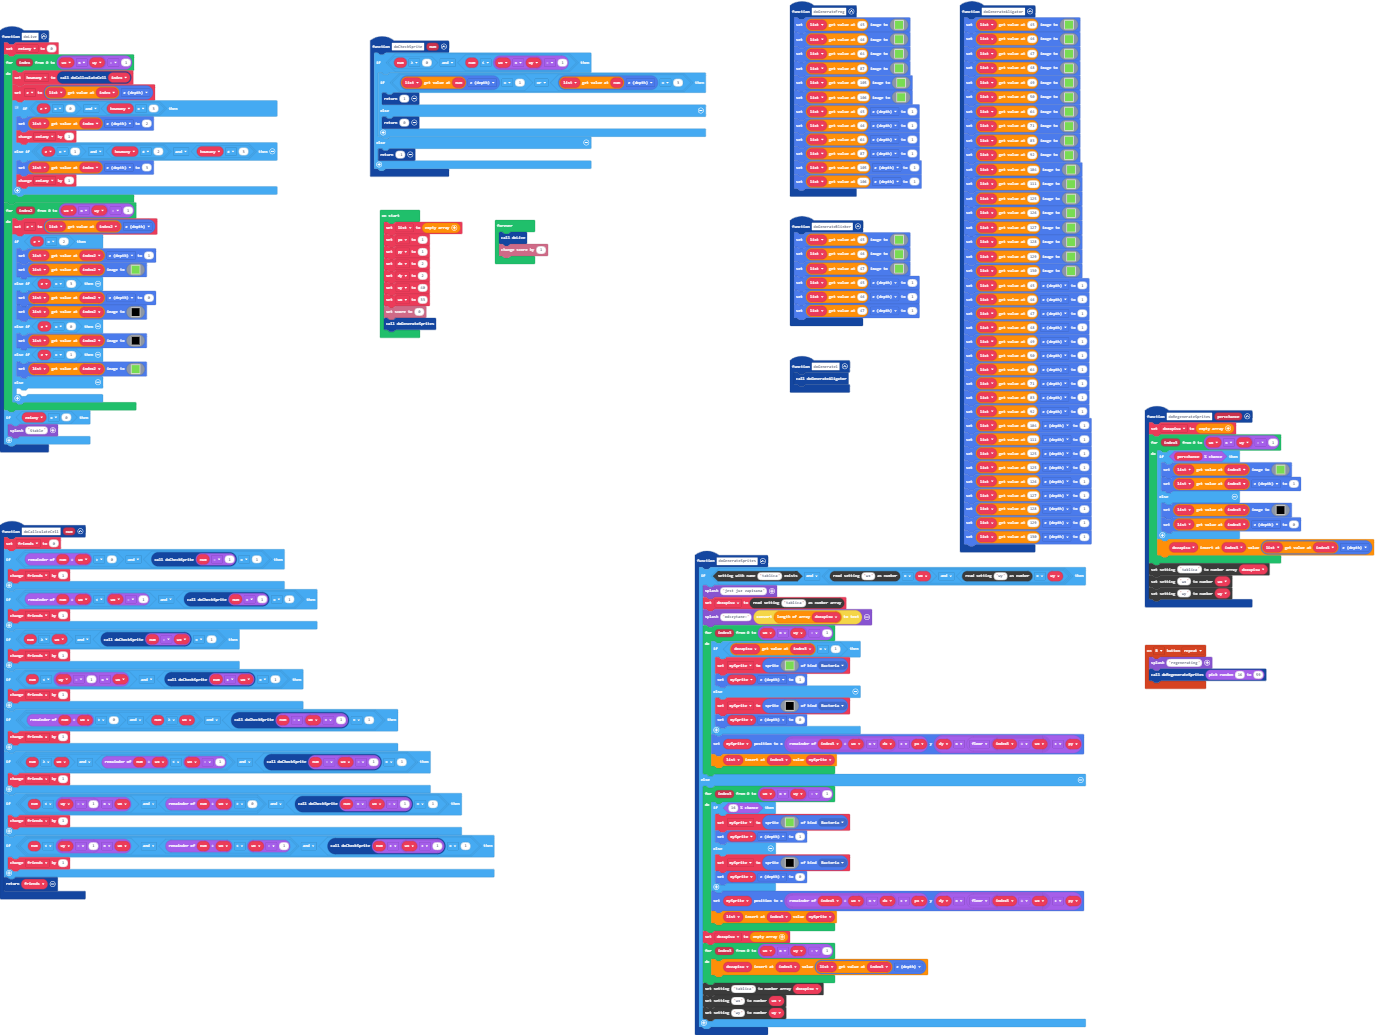
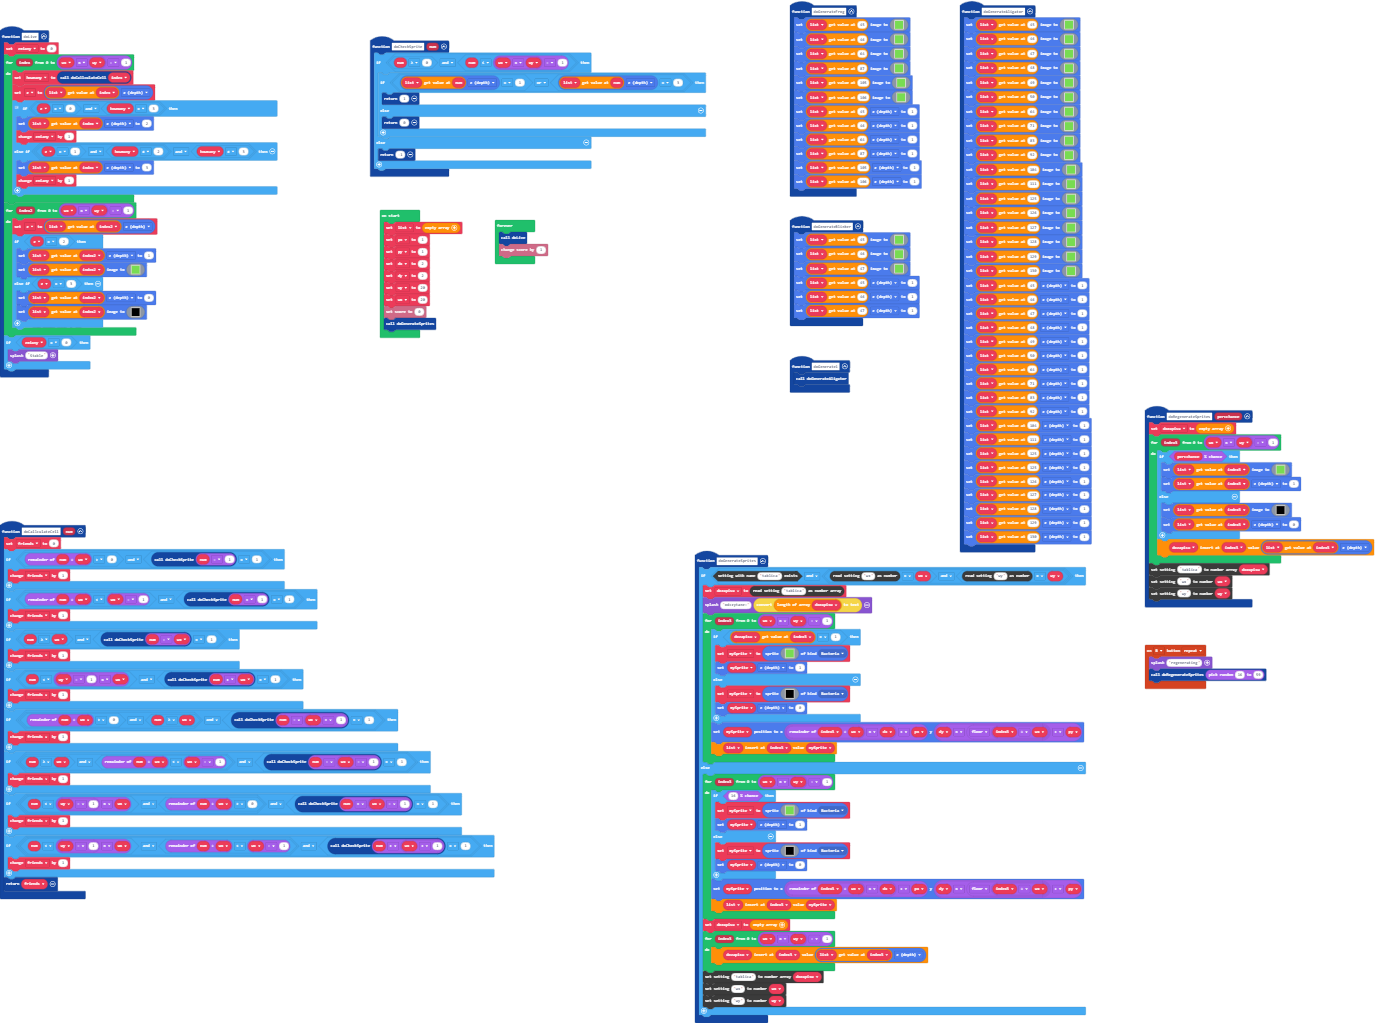
poprawiona optymalizacje kody

diff --git a/main.ts b/main.ts
@@ -3,7 +3,6 @@ namespace SpriteKind {
 }
 function doGenerateSprites () {
     if (blockSettings.exists("tablica") && (blockSettings.readNumber("wx") == wx && blockSettings.readNumber("wy") == wy)) {
-        game.splash("jest juz zapisana")
         dozapisu = blockSettings.readNumberArray("tablica")
         game.splash("odczytane:", convertToText(dozapisu.length))
         for (let index3 = 0; index3 <= wx * wy - 1; index3++) {
@@ -303,18 +302,6 @@ function doLive () {
                 f f 
                 f f 
                 `)
-        } else if (z == 0) {
-            list[index2].setImage(img`
-                f f 
-                f f 
-                `)
-        } else if (z == 1) {
-            list[index2].setImage(img`
-                7 7 
-                7 7 
-                `)
-        } else {
-        	
         }
     }
     if (zmiany == 0) {
@@ -339,8 +326,8 @@ px = 1
 py = 1
 dx = 2
 dy = 2
-wy = 40
-wx = 33
+wy = 20
+wx = 20
 info.setScore(0)
 doGenerateSprites()
 forever(function () {
